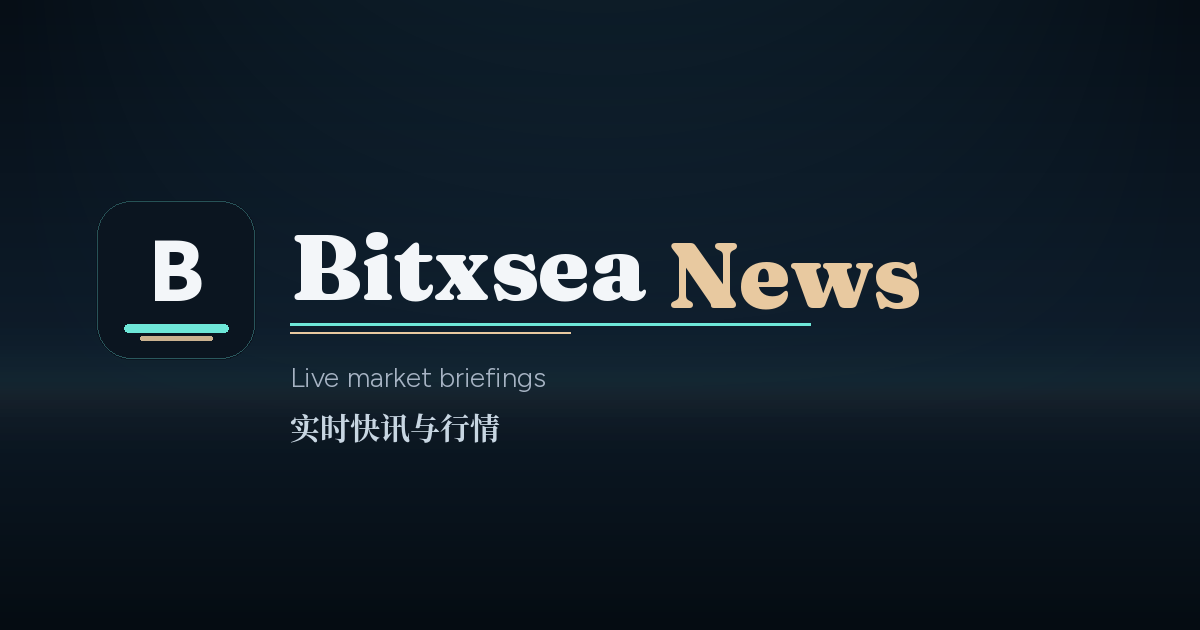
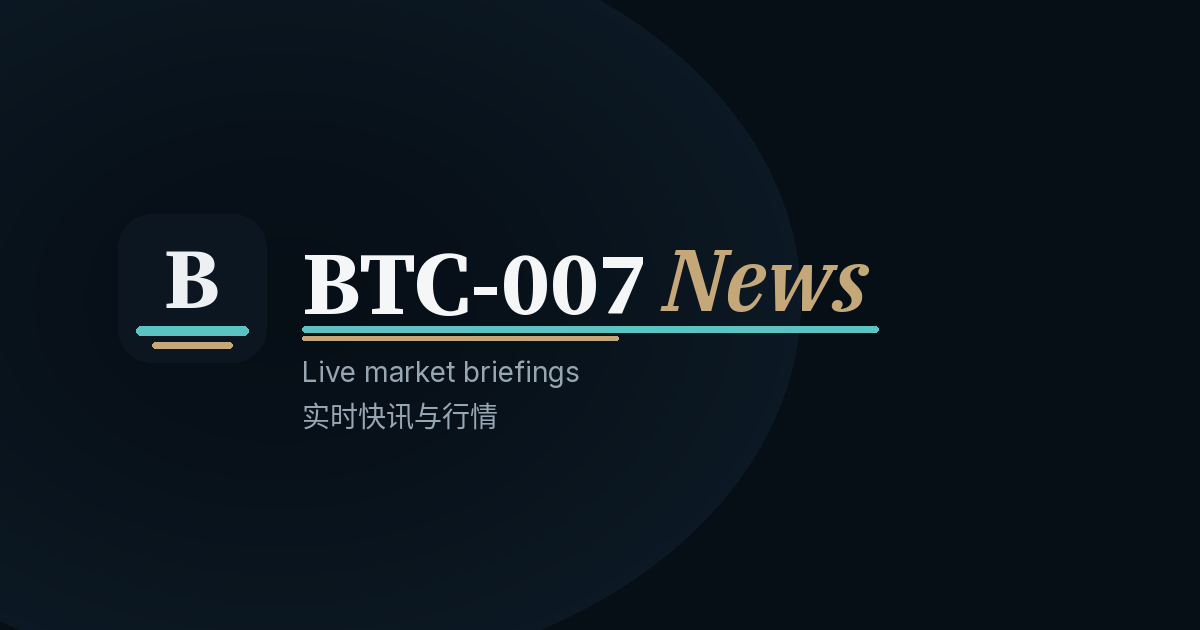
Rename the site to BTC-007 News
Update visible branding, metadata, and the social share image. Keep the live here.now slug unchanged.

Changed region(s): [[0.0925, 0.3619, 1.0, 0.7238]]

diff --git a/i18n.js b/i18n.js
@@ -1,4 +1,4 @@
-/* Bitxsea News chrome strings — original, not copied from eqn.news */
+/* BTC-007 News chrome strings — original, not copied from eqn.news */
 window.BITXSEA_I18N = {
   en: {
     skip: "Skip to stories",
@@ -97,7 +97,7 @@ window.BITXSEA_I18N = {
     not_found: "This story could not be found.",
     hk: "HK",
     disclaimer: "Content is automatically collected and translated, and is not investment advice.",
-    attribution: "Headlines and market data come from the Equation News public API. The interface is independently designed by Bitxsea News. <a href=\"https://eqn.news/api-docs\" target=\"_blank\" rel=\"noopener noreferrer\">API documentation</a>"
+    attribution: "Headlines and market data come from the Equation News public API. The interface is independently designed by BTC-007 News. <a href=\"https://eqn.news/api-docs\" target=\"_blank\" rel=\"noopener noreferrer\">API documentation</a>"
   },
   zh: {
     skip: "跳到快讯列表",
@@ -196,7 +196,7 @@ window.BITXSEA_I18N = {
     not_found: "找不到这条快讯。",
     hk: "香港",
     disclaimer: "内容由系统自动采集与翻译，不构成投资建议。",
-    attribution: "快讯与行情数据来自 Equation News 公开接口，界面由 Bitxsea News 独立设计。<a href=\"https://eqn.news/api-docs\" target=\"_blank\" rel=\"noopener noreferrer\">接口说明</a>"
+    attribution: "快讯与行情数据来自 Equation News 公开接口，界面由 BTC-007 News 独立设计。<a href=\"https://eqn.news/api-docs\" target=\"_blank\" rel=\"noopener noreferrer\">接口说明</a>"
   }
 };
 
@@ -297,7 +297,7 @@ window.BITXSEA_I18N.ko = {
   not_found: "해당 소식을 찾을 수 없습니다.",
   hk: "홍콩",
   disclaimer: "콘텐츠는 자동으로 수집·번역되며 투자 조언이 아닙니다.",
-  attribution: "헤드라인과 시세 데이터는 Equation News 공개 API에서 가져오며, 인터페이스는 Bitxsea News가 독자적으로 설계했습니다. <a href=\"https://eqn.news/api-docs\" target=\"_blank\" rel=\"noopener noreferrer\">API 문서</a>"
+  attribution: "헤드라인과 시세 데이터는 Equation News 공개 API에서 가져오며, 인터페이스는 BTC-007 News가 독자적으로 설계했습니다. <a href=\"https://eqn.news/api-docs\" target=\"_blank\" rel=\"noopener noreferrer\">API 문서</a>"
 };
 
 window.BITXSEA_I18N.tr = {
@@ -397,7 +397,7 @@ window.BITXSEA_I18N.tr = {
   not_found: "Bu haber bulunamadı.",
   hk: "HK",
   disclaimer: "İçerik otomatik olarak toplanır ve çevrilir; yatırım tavsiyesi değildir.",
-  attribution: "Manşetler ve piyasa verileri Equation News herkese açık API’sinden gelir. Arayüz Bitxsea News tarafından bağımsız olarak tasarlanmıştır. <a href=\"https://eqn.news/api-docs\" target=\"_blank\" rel=\"noopener noreferrer\">API belgeleri</a>"
+  attribution: "Manşetler ve piyasa verileri Equation News herkese açık API’sinden gelir. Arayüz BTC-007 News tarafından bağımsız olarak tasarlanmıştır. <a href=\"https://eqn.news/api-docs\" target=\"_blank\" rel=\"noopener noreferrer\">API belgeleri</a>"
 };
 
 window.BITXSEA_I18N.ru = {
@@ -497,7 +497,7 @@ window.BITXSEA_I18N.ru = {
   not_found: "Материал не найден.",
   hk: "HK",
   disclaimer: "Материалы собираются и переводятся автоматически и не являются инвестиционной рекомендацией.",
-  attribution: "Заголовки и рыночные данные поступают из открытого API Equation News. Интерфейс независимо разработан Bitxsea News. <a href=\"https://eqn.news/api-docs\" target=\"_blank\" rel=\"noopener noreferrer\">Документация API</a>"
+  attribution: "Заголовки и рыночные данные поступают из открытого API Equation News. Интерфейс независимо разработан BTC-007 News. <a href=\"https://eqn.news/api-docs\" target=\"_blank\" rel=\"noopener noreferrer\">Документация API</a>"
 };
 
 window.BITXSEA_CHANNELS = [

diff --git a/index.html b/index.html
@@ -3,18 +3,18 @@
 <head>
   <meta charset="utf-8">
   <meta name="viewport" content="width=device-width, initial-scale=1, viewport-fit=cover">
-  <title>Bitxsea News</title>
-  <meta name="description" content="Bitxsea News — live crypto and market briefings. 实时快讯与行情。Automatically collected, independently designed.">
+  <title>BTC-007 News</title>
+  <meta name="description" content="BTC-007 News — live crypto and market briefings. 实时快讯与行情。Automatically collected, independently designed.">
   <meta name="color-scheme" content="dark light">
   <meta name="theme-color" content="#071018" media="(prefers-color-scheme: dark)">
   <meta name="theme-color" content="#F3EFE6" media="(prefers-color-scheme: light)">
   <meta property="og:type" content="website">
-  <meta property="og:site_name" content="Bitxsea News">
-  <meta property="og:title" content="Bitxsea News">
+  <meta property="og:site_name" content="BTC-007 News">
+  <meta property="og:title" content="BTC-007 News">
   <meta property="og:description" content="Live market briefings / 实时快讯与行情">
   <meta property="og:image" content="https://polite-lotus-yhf8.here.now/og-image.png">
   <meta name="twitter:card" content="summary_large_image">
-  <meta name="twitter:title" content="Bitxsea News">
+  <meta name="twitter:title" content="BTC-007 News">
   <meta name="twitter:description" content="Live market briefings / 实时快讯与行情">
   <meta name="twitter:image" content="https://polite-lotus-yhf8.here.now/og-image.png">
   <link rel="icon" href="./favicon.svg" type="image/svg+xml">
@@ -32,14 +32,14 @@
   <link rel="preconnect" href="https://fonts.gstatic.com" crossorigin>
   <link rel="preconnect" href="https://eqn.news" crossorigin>
   <link rel="stylesheet" href="https://fonts.googleapis.com/css2?family=Fraunces:opsz,wght@9..144,500;9..144,600;9..144,700&family=Noto+Sans:ital,wght@0,400;0,500;0,600;0,700;1,400&family=Noto+Sans+KR:wght@400;500;600&family=Noto+Sans+SC:wght@400;500;600;700&family=Noto+Serif+SC:wght@600;700&display=swap">
-  <link rel="stylesheet" href="./styles.css?v=e1a58c74b2">
+  <link rel="stylesheet" href="./styles.css?v=ce2b83f857">
 </head>
 <body>
   <a class="skip-link" href="#main" data-i18n="skip">Skip to stories</a>
 
   <header class="site-header" id="site-header">
     <div class="header-inner">
-      <a class="brand" href="./" data-nav="home" aria-label="Bitxsea News">
+      <a class="brand" href="./" data-nav="home" aria-label="BTC-007 News">
         <span class="brand-mark" aria-hidden="true">
           <svg viewBox="0 0 32 32" width="32" height="32" focusable="false">
             <rect width="32" height="32" rx="7.2" fill="currentColor" class="mark-bg"/>
@@ -49,7 +49,7 @@
           </svg>
         </span>
         <span class="brand-text">
-          <span class="brand-name">Bitxsea</span>
+          <span class="brand-name">BTC-007</span>
           <span class="brand-sub">News</span>
         </span>
       </a>
@@ -208,9 +208,9 @@
   </div>
 
   <noscript>
-    <p class="noscript">Bitxsea News needs JavaScript to load live headlines and market data.</p>
+    <p class="noscript">BTC-007 News needs JavaScript to load live headlines and market data.</p>
   </noscript>
-  <script src="./i18n.js?v=d7c20f91e3" defer></script>
-  <script src="./app.js?v=a4b8e62c19" defer></script>
+  <script src="./i18n.js?v=d476cb999a" defer></script>
+  <script src="./app.js?v=f943a9ef3d" defer></script>
 </body>
 </html>

diff --git a/app.js b/app.js
@@ -375,7 +375,7 @@
     });
     if (isMarkets) renderMarketsView();
     measureChrome();
-    if (!isArticle) document.title = "Bitxsea News";
+    if (!isArticle) document.title = "BTC-007 News";
   }
 
   function readUrl() {
@@ -1767,7 +1767,7 @@
     const note = it.data && it.data.note ? String(it.data.note) : "";
     const body = it.body ? String(it.body) : "";
     const ch = (it.channels || [])[0] || "";
-    document.title = title ? `${title} · Bitxsea News` : "Bitxsea News";
+    document.title = title ? `${title} · BTC-007 News` : "BTC-007 News";
     const related = (data.related && Array.isArray(data.related.items)) ? data.related.items : [];
     const latest = Array.isArray(data.channel_latest) ? data.channel_latest : [];
     const prevId = data.prev_id;

diff --git a/styles.css b/styles.css
@@ -1,4 +1,4 @@
-/* Bitxsea News — original fullscreen live board. Not derived from eqn.news. */
+/* BTC-007 News — original fullscreen live board. Not derived from eqn.news. */
 
 :root {
   color-scheme: dark;
@@ -1373,7 +1373,7 @@ html[data-theme="light"] .btn-primary { color: #fffdf8; }
 /* Ensure the hidden attribute always wins over display utilities */
 [hidden] { display: none !important; }
 
-/* Coin detail drawer — original Bitxsea panel
+/* Coin detail drawer — original BTC-007 News panel
    ------------------------------------------------------------------ */
 .coin-drawer {
   position: fixed;

diff --git a/README.md b/README.md
@@ -1,4 +1,4 @@
-# Bitxsea News
+# BTC-007 News
 
 Live site: https://polite-lotus-yhf8.here.now/
 
